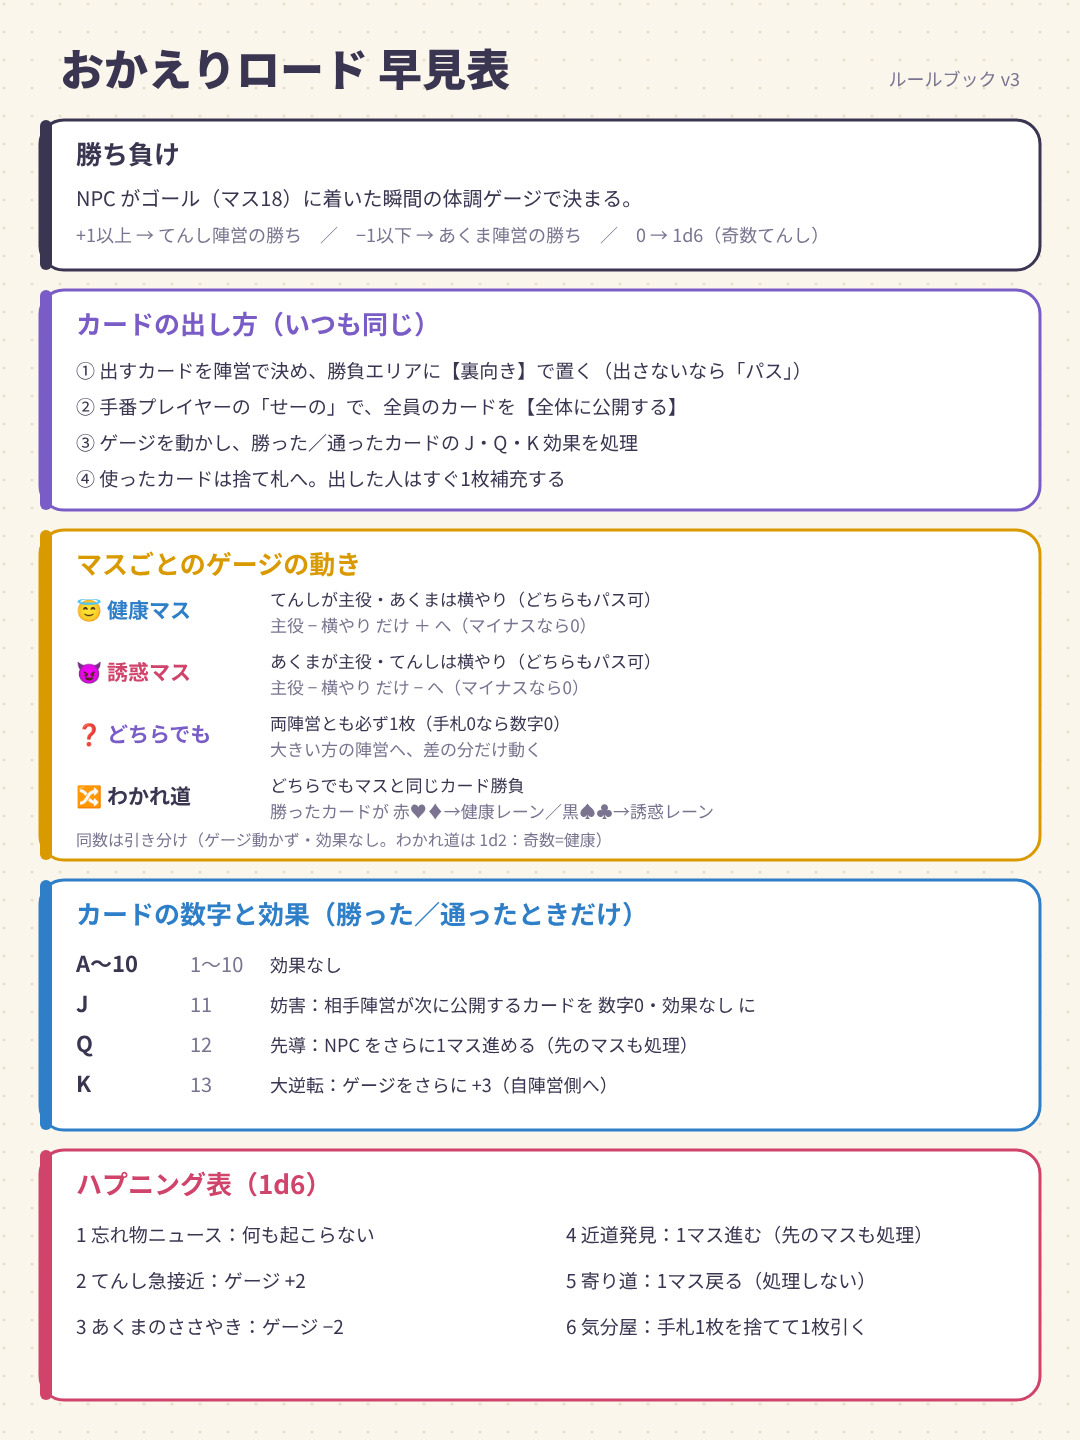
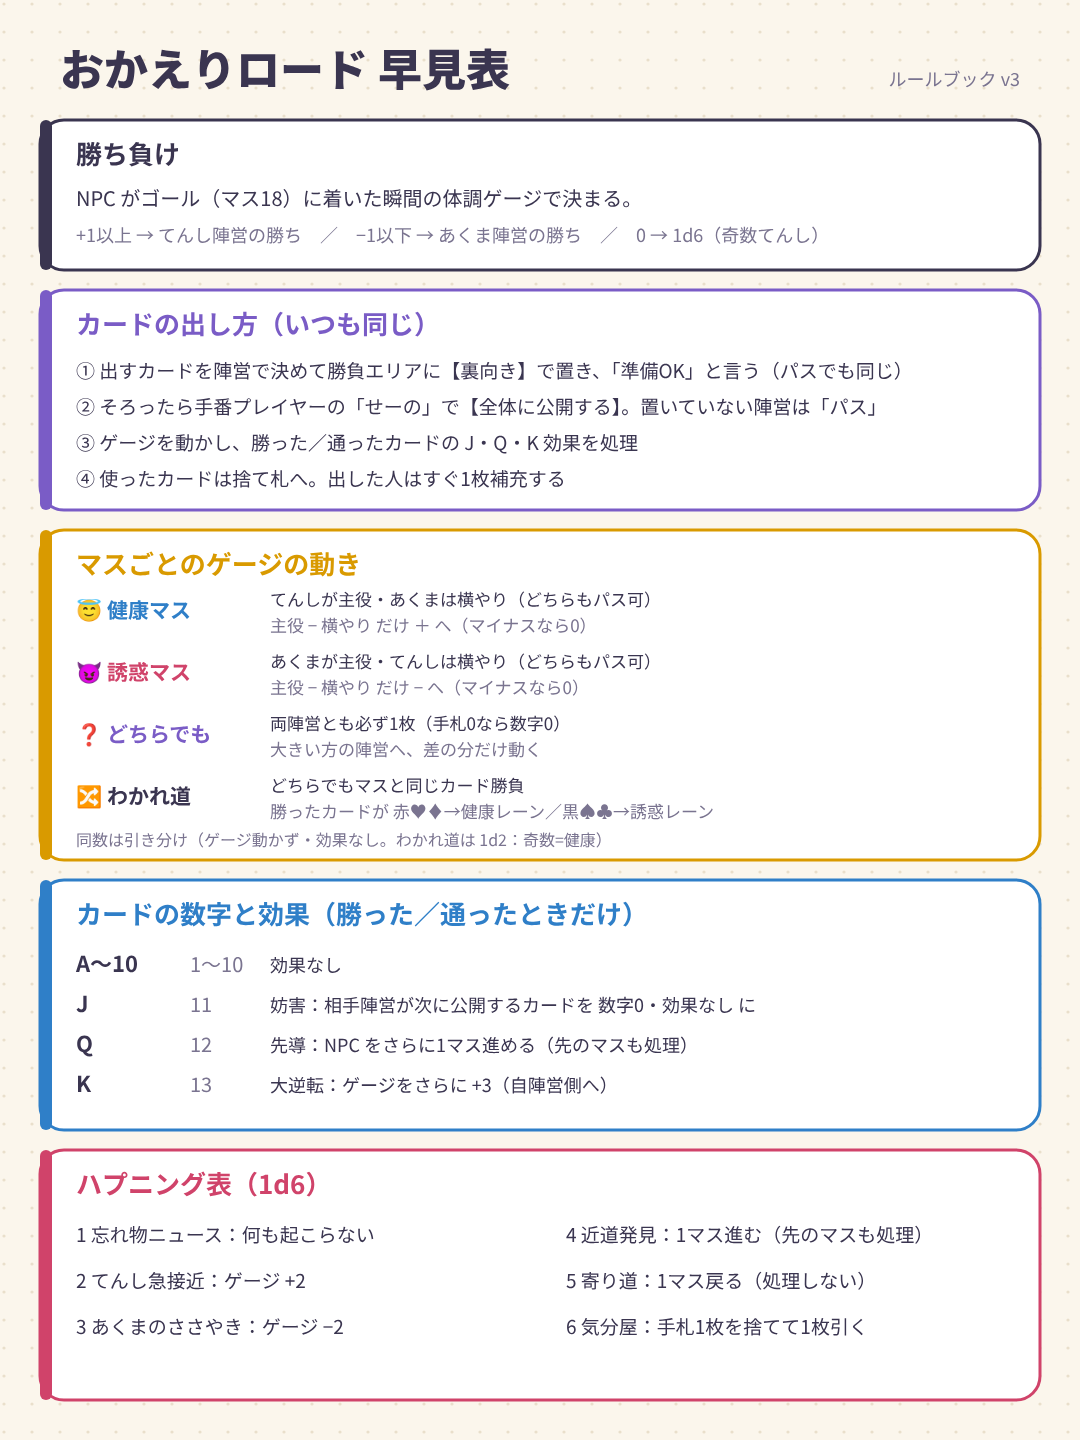
早見表のカードの出し方を「準備OK」→せーので公開時にパスの手順に合わせる (#39)
Claude-Session: https://claude.ai/code/session_017j5mJBk37X7ACJtHhXNrEm

diff --git a/tools/build_assets.py b/tools/build_assets.py
@@ -349,8 +349,8 @@ def quick_reference():
     # 2. カードの出し方
     y = 290
     box(y, 220, "カードの出し方（いつも同じ）", "#7A5CC6")
-    steps = ["① 出すカードを陣営で決め、勝負エリアに【裏向き】で置く（出さないなら「パス」）",
-             "② 手番プレイヤーの「せーの」で、全員のカードを【全体に公開する】",
+    steps = ["① 出すカードを陣営で決めて勝負エリアに【裏向き】で置き、「準備OK」と言う（パスでも同じ）",
+             "② そろったら手番プレイヤーの「せーの」で【全体に公開する】。置いていない陣営は「パス」",
              "③ ゲージを動かし、勝った／通ったカードの J・Q・K 効果を処理",
              "④ 使ったカードは捨て札へ。出した人はすぐ1枚補充する"]
     for i, s in enumerate(steps):

diff --git a/IMPROVEMENT_LOG.md b/IMPROVEMENT_LOG.md
@@ -40,3 +40,4 @@
 - 2026-10-05 17:09 JST: RULES.md「ゲームの進め方」に4人プレイでの最初の3ターンの「プレイ例」（どちらでもマスの勝負と代表の輪番、わかれ道の通過時勝負とレーン内移動、ハプニング、誘惑マスでのカード提出者の決め方、補充）を追加し、目次にリンクを追加（PR #36）
 - 2026-10-05 20:30 JST: ルールブックを v3 に改訂。CCFOLIA標準の「トランプのデッキ」へ移行してディーラーを不要に（2〜6人、仮想デッキは付録に）、健康／誘惑マスに相手陣営の「横やり」を追加、カードの出し方を「裏向きで置いて せーの で公開」の1手順に統一し「3分でわかる遊び方」を追加。ボードを前景用の横長 1920×1080（カード置き場・凡例・手番の流れ入り）に再デザインし、コマ・早見表画像・チャットパレット・README を刷新、素材生成スクリプト tools/ を追加。#36 のプレイ例と #35 の ♣ の扱いも v3 に合わせて書き直した（PR #37）
 - 2026-10-05 21:09 JST: RULES.md「カードの出し方」で、パスを置く段階で宣言すると健康／誘惑マスで相手に情報が漏れるため、両陣営とも「準備OK」とだけ言い、パスは「せーの」の公開時に宣言する手順に統一。主役がパスし横やりだけ公開された場合の処理を例示し、チャットパレットに「準備OK」を追加（PR #38）
+- 2026-10-06 01:08 JST: 早見表（assets/quick_reference.svg/.png と tools/build_assets.py）の「カードの出し方」①②が、#38 で改めた手順（置いたら「準備OK」、パスは「せーの」の公開時に宣言）と食い違い、置く段階でパスを言うように読めたため、RULES.md・チャットパレットに合わせて修正し PNG を再書き出し（PR #39）
